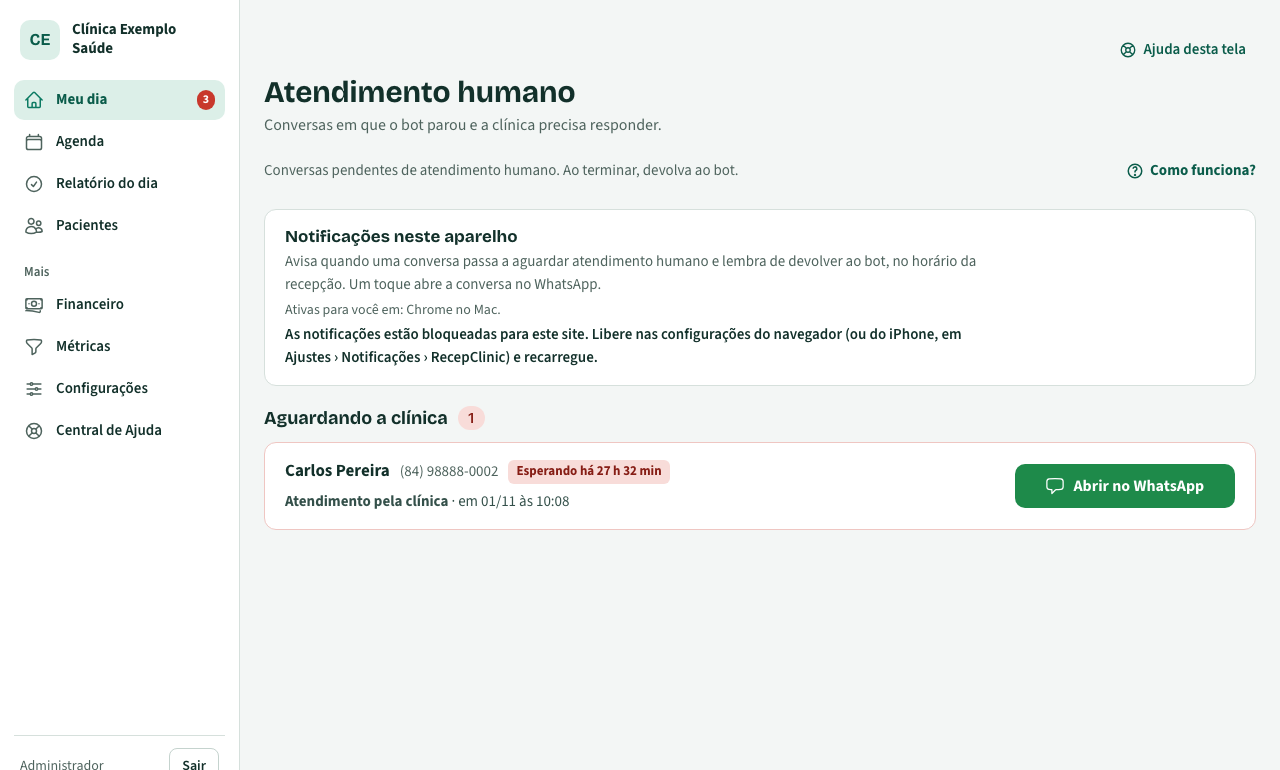
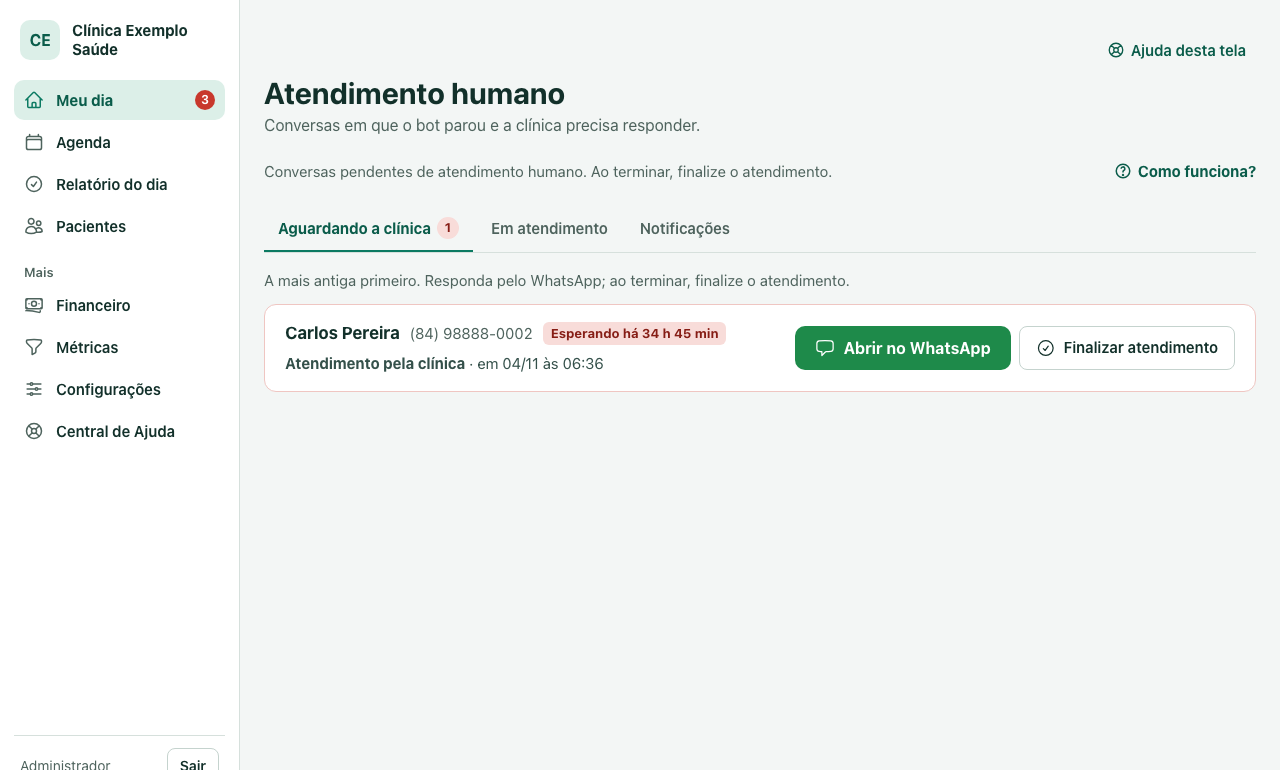
Central de Ajuda: 5 capturas refeitas (inicio, atendimento, config-agendas, config-horarios, config-whatsapp)
Roteiro escolhe a agenda de Horários pelo nome (o id muda a cada seed).
Artigos: Forma de pagamento na Meta saiu da tela WhatsApp (vira nota);
Precisa de você inclui Corrigir número.

diff --git a/src/lib/central/artigos/configuracoes.ts b/src/lib/central/artigos/configuracoes.ts
@@ -243,15 +243,14 @@ export const configuracoesArtigos = [
       "Abra Configurações › WhatsApp e toque em Conectar WhatsApp.",
       "Na janela da Meta, entre com o seu Facebook, escolha o portfólio da clínica e o número.",
       "Se a recepção já usa o número no app WhatsApp Business, escolha conectar o app (tenha o celular à mão para o código): ela continua atendendo por ele e o bot atende pelo sistema. Ou cadastre um número novo, só para o sistema.",
-      "Quando aparecer \"Conectado\", confira a situação das mensagens automáticas e a forma de pagamento na Meta.",
+      "Quando aparecer \"Conectado\", confira a situação das mensagens automáticas e envie a mensagem de teste.",
     ],
     fields: [
       { name: "Situação", text: "Conectado, Em configuração ou Desconectado, com o número e a data." },
       { name: "Mensagens automáticas na Meta", text: "A análise da Meta leva de minutos a algumas horas e a aprovação chega sozinha. Até lá esses envios não saem. Recusada: o suporte do RecepClinic ajusta o texto e reenvia." },
-      { name: "Forma de pagamento na Meta", text: "A Meta cobra da clínica, direto, as mensagens automáticas; sem o cartão definido como padrão na conta do WhatsApp elas não saem, e o bot continua respondendo quem escreve." },
       { name: "Mensagem de teste", text: "O Administrador ou o Suporte envia um teste para um celular e vê se foi entregue; se falhar, a tela diz o motivo e o que fazer. A clínica só é ativada com um teste entregue." },
     ],
-    notes: ["Para trocar de número: desconecte e conecte de novo com o número novo.", "Se aparecer \"A conexão pela Meta ainda não está ligada no sistema\", fale com o suporte do RecepClinic."],
+    notes: ["A Meta cobra da clínica, direto, as mensagens: sem um cartão definido como padrão na conta do WhatsApp, na Meta, elas deixam de sair. O teste mostra quando é isso.", "Para trocar de número: desconecte e conecte de novo com o número novo.", "Se aparecer \"A conexão pela Meta ainda não está ligada no sistema\", fale com o suporte do RecepClinic."],
     contextual: ["/admin/configuracoes/whatsapp"],
   }),
   article({

diff --git a/src/lib/central/artigos/primeiros-passos.ts b/src/lib/central/artigos/primeiros-passos.ts
@@ -44,7 +44,7 @@ export const primeirosPassos = [
     intro: "O Meu dia mostra o dia da clínica: quantos atendimentos há hoje, o que ainda pede ação e quem ainda não respondeu. O que aparece segue os itens liberados para a clínica e o seu papel.",
     fields: [
       { name: "Linha do dia", text: "Quantos atendimentos há hoje (sem os cancelados), cada um num grupo só: já atendidas, faltaram, confirmadas (pelo lembrete ou pela recepção) e a confirmar. A soma dá o total; a barra mostra os mesmos grupos. Tem o link para a agenda de hoje." },
-      { name: "Precisa de você", text: "Conversas aguardando atendimento humano e as que a clínica ainda não devolveu ao bot (levam a Atendimento), consultas para registrar presença e contatos a conferir. Cada linha some quando alguém resolve." },
+      { name: "Precisa de você", text: "Conversas aguardando atendimento humano e as que estão com a clínica (levam a Atendimento), consultas para registrar presença, contatos a conferir e números sem WhatsApp (Corrigir número, com Salvar e reenviar, ou O número está certo). Cada linha some quando alguém resolve." },
       { name: "Esperando o paciente", text: "Lembretes de hoje e de amanhã sem resposta, com Confirmar presença, Reenviar lembrete e Remarcar (com confirmação). Sai da lista na hora da consulta." },
       { name: "Próximas consultas", text: "As de hoje que ainda não foram registradas, com Compareceu a partir do horário." },
       { name: "Buscar paciente", text: "Leva à lista de Pacientes com a busca feita." },

diff --git a/docs/capturas-pendentes.md b/docs/capturas-pendentes.md
@@ -9,8 +9,4 @@ a captura e o motivo, avisar o cliente no fim da etapa e esperar a autorização
 
 ## Pendentes
 
-- `config-agendas` — o botão "Nova agenda" (ou "Nova agenda da equipe (exames)") agora aparece também quando só falta a agenda da equipe; o link discreto saiu (02/11/2026)
-- `config-horarios` — com mais de uma agenda, nenhuma vem escolhida; o roteiro agora abre com `?agenda=` (a Helena do seed) (02/11/2026)
-- `config-whatsapp` — o bloco "Forma de pagamento na Meta" (marcação do Suporte) saiu; entrou "Mensagem de teste" com o último envio e o motivo da falha (IS2, 03/11/2026)
-- `inicio` — busca com rótulo e borda verde; em "Esperando o paciente", só Confirmar presença, Reenviar lembrete e Remarcar (sem o WhatsApp) (C23); linha do dia com já atendidas, faltaram, confirmadas e a confirmar (C25) (04/11/2026); em "Precisa de você", a linha "Corrigir número" (número sem WhatsApp, com o seed novo) (05/11/2026)
-- `atendimento` — três abas (Aguardando a clínica, Em atendimento, Notificações); em cada conversa só Abrir no WhatsApp e Finalizar atendimento (era "Devolver ao bot"); o cartão de notificações foi para a 3ª aba (CA, 04/11/2026)
+(nenhuma)
